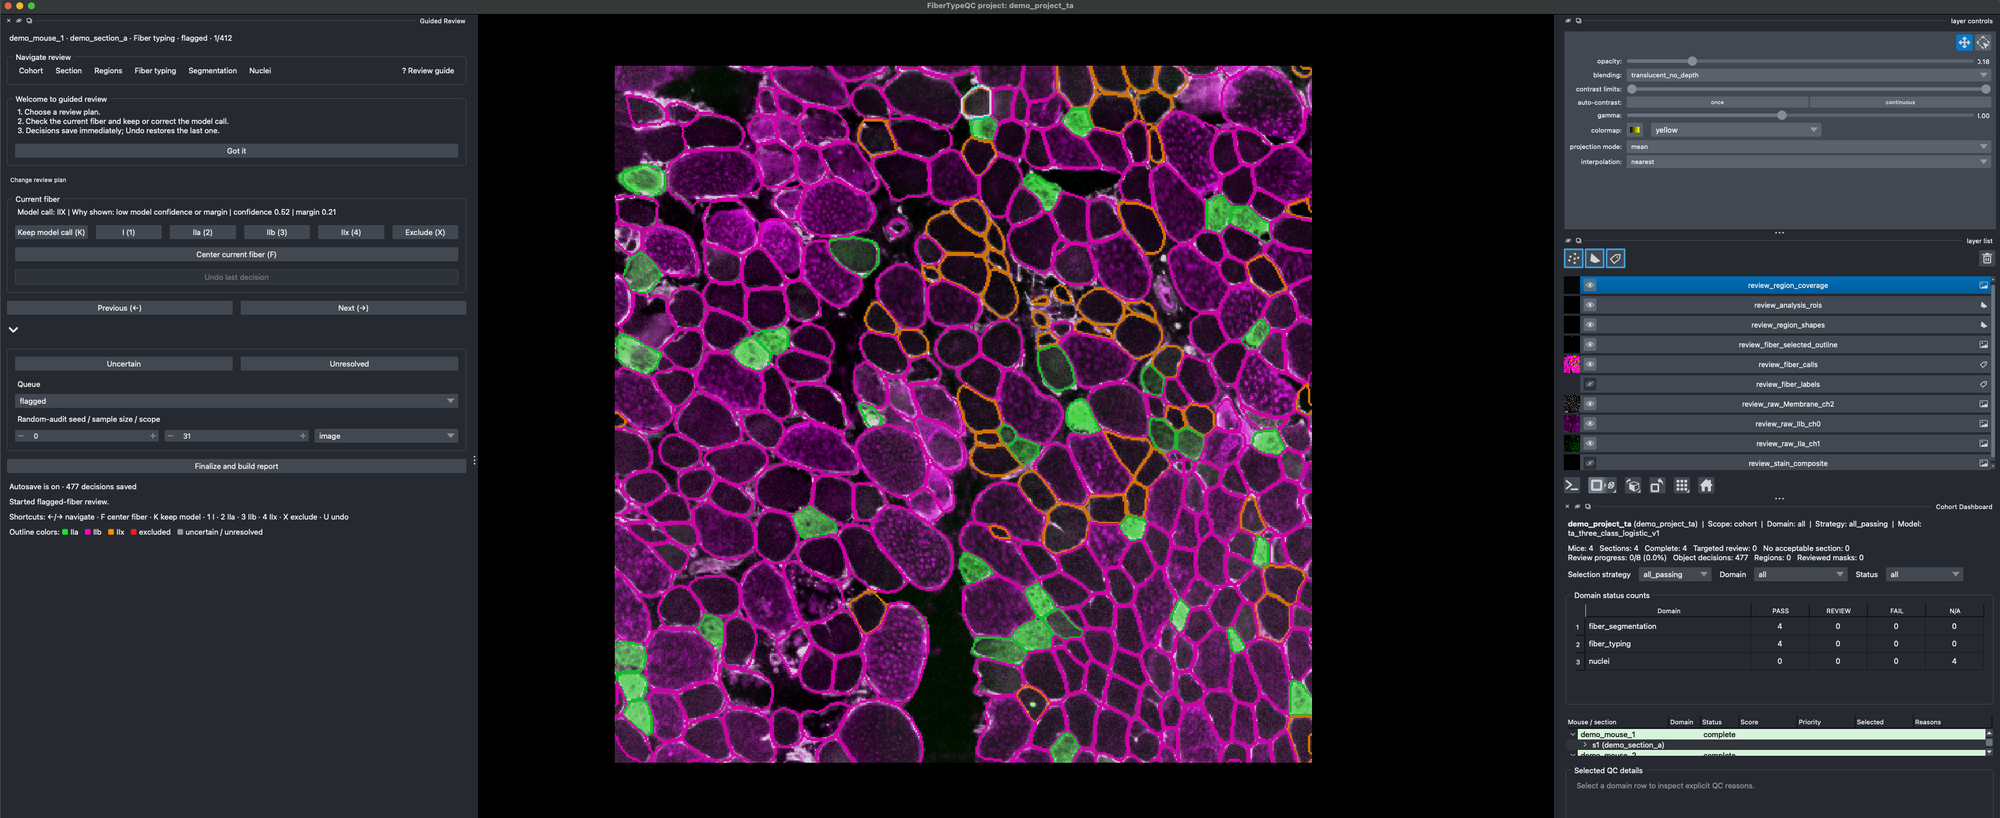
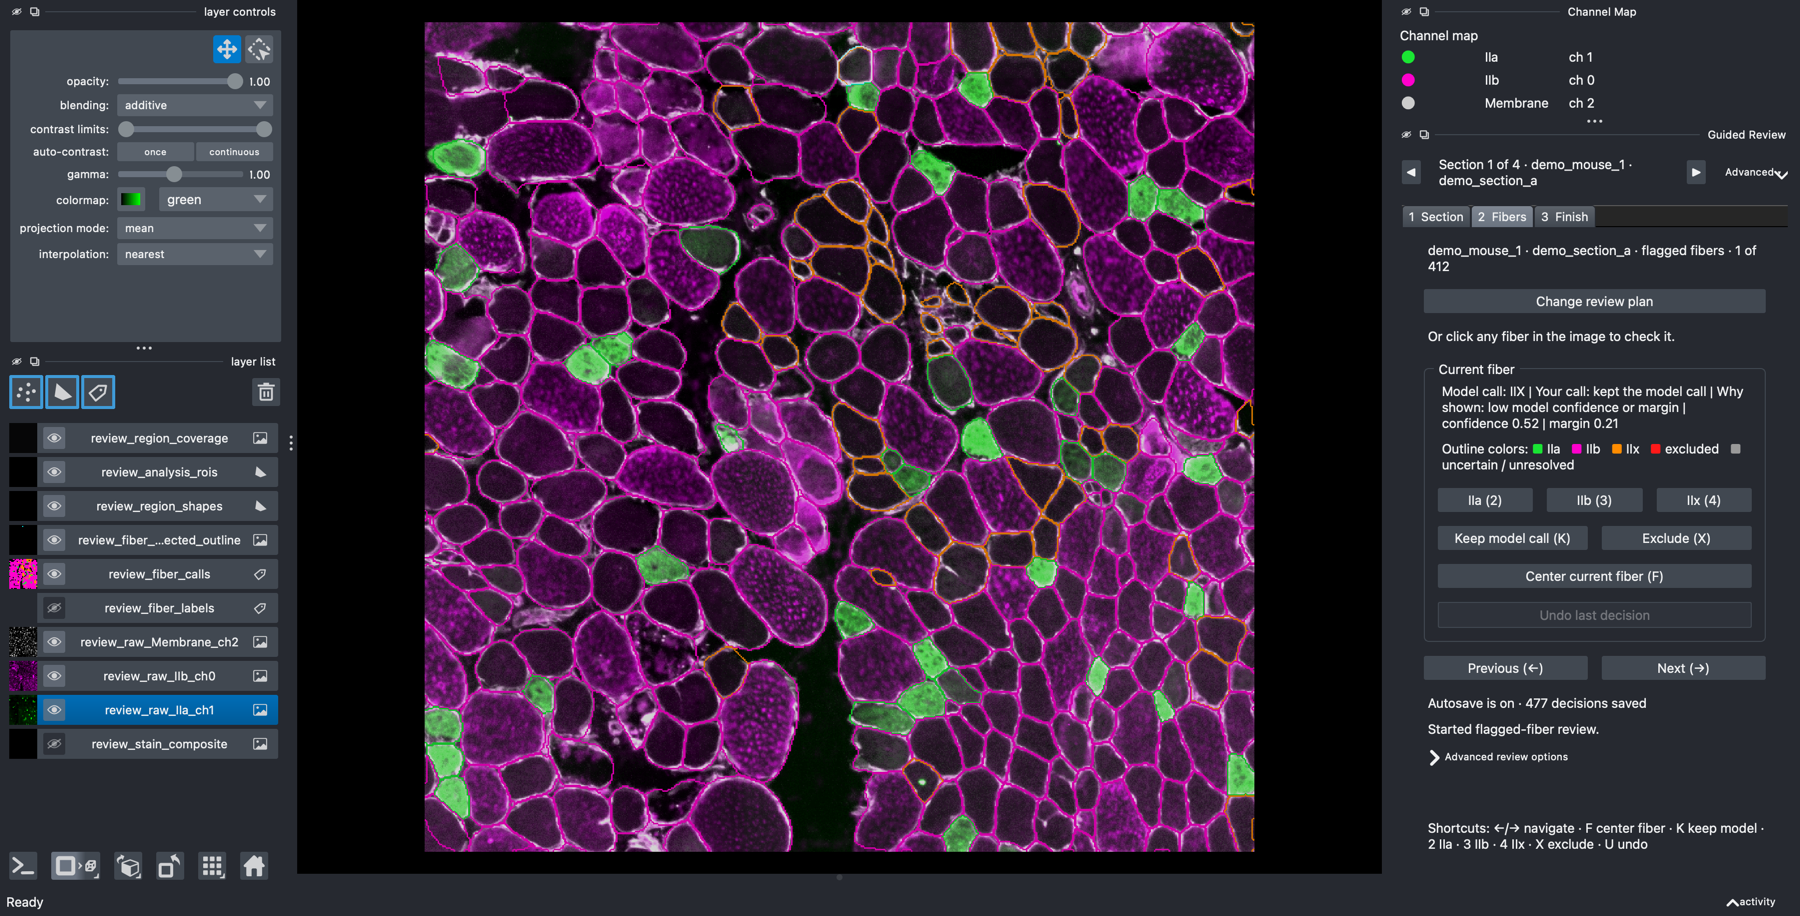
Prepare v0.5.1: staged review window; docs and screenshot updated (#113)
Version 0.5.1 (pyproject, uv.lock, CITATION with the v0.5.0 DOI). CHANGELOG:
v0.5.1 section with a release summary, and the v0.5.0 heading restored (lost
in #111; the v0.5.0 section is again identical to the tag). New review
screenshot on the public demo; README, demo, review reference, and roadmap
describe the stages, Advanced menu, and released v0.5.0.

diff --git a/docs/review_reference.md b/docs/review_reference.md
@@ -350,9 +350,17 @@ explicit seeds, and sample sizes for reproducible study protocols.
 
 ### Guided review workflow
 
-Start by choosing **Review flagged fibers**, **Review this section**, or **View
-cohort QC**. The prominent **Navigate review** bar switches to the cohort,
-current section, and other domains. After selecting a plan, the dock shows one
+The review panel sits on the right, beside napari's layer controls and layer
+list on the left. Its top bar names the section on screen, with ◀ ▶ to move
+between sections and **Advanced ▾** for the cohort dashboard, per-domain section
+status, named regions and ROIs, and nuclei review (these open as tabs beside the
+panel). Below it, one stage is shown at a time: **Section** (a verdict for the
+section: looks fine, leave out an area, or leave out the section; implemented in
+`src/review/section_stage_widget.py`), **Fibers**, and **Finish** (a summary and
+finalization). In the Fibers stage, choose **Review flagged fibers** or **Review
+this section**, or click any fiber in the image: a clicked fiber is checked on
+its own, recorded with reason `clicked`, and the panel then returns to the plan
+and position it was on (clicking is off in blind labelling). The stage shows one
 fiber at a time with a short context line and plain-language primary action
 **Keep model call (K)**. Type corrections and navigation buttons show their
 hotkeys directly. Advanced queue controls and uncommon actions are grouped under
@@ -365,16 +373,15 @@ The visible shortcut legend is: Left/Right to navigate, `K` to keep the model
 call, `1`/`2`/`3`/`4` for I/IIa/IIb/IIx, `F` to center the current fiber, and
 `U` to undo the immediately prior decision.
 
-The persistent navigator moves between cohort QC, the current section, and
-domain-specific review. If a dock is closed accidentally, reopen it from the
-Napari **Workspace** menu; **Restore review workspace** returns the Guided
-Review dock and channel map without restarting. Raw data opens as individually
+If a panel is closed accidentally, reopen it from the napari **Review** menu;
+**Restore review workspace** returns the review panel and channel map without
+restarting. When a section opens, a stain channel is the selected layer, so the
+contrast controls act on it; each section's channel contrast is kept in
+`review/display_contrast.json` (display only) and restored on return. Raw data opens as individually
 toggleable, color-named stain channels (a fixed composite layer is available, hidden),
 with fibers outlined in the color of their current call.
-choices do not modify predictions or review data.
 The compact, fixed-width Channel Map identifies each role and source channel.
 These display choices do not modify predictions or review data.
-choices do not modify predictions or review data.
 
 The legacy `review_labels_napari` CSV layout remains readable through the
 `load_legacy_fiber_type_decisions` adapter. It is a migration input only; the
@@ -383,8 +390,10 @@ and masks are not part of this phase.
 
 ## Region Review (Phase 5)
 
-Open the project workspace and choose **Regions** in the persistent navigator,
-or use **Workspace → Show Region Review**. The image receives a yellow
+To leave out an area, the Section stage's **Leave out an area…** is enough (it
+records an `exclude_all_analysis` region). For other actions and named ROIs,
+choose **Advanced ▾ → Named regions and analysis ROIs**, or **Review → Advanced
+→ Named regions and analysis ROIs**. The image receives a yellow
 `review_region_shapes` layer and a translucent `review_region_coverage` layer.
 The coverage layer counts only saved reviewer polygons; it is not a QC score or
 biological measurement.
@@ -430,7 +439,8 @@ uv run python -m src.review_project_napari \
   --display-downsample 1
 ```
 
-Choose **Nuclei** in Guided Review, or use **Workspace → Show Nuclei Review**.
+Choose **Advanced ▾ → Nuclei review** in the review panel, or **Review → Advanced
+→ Nuclei review**.
 The selected image shows its configured raw-image channels (including DAPI/eMHC
 when present), fiber labels, reviewed nuclei labels, and an empty **Draft new
 nucleus** labels layer.

diff --git a/README.md b/README.md
@@ -23,7 +23,7 @@ images ─► segment (Cellpose) ─► type (panel-specific model) ─► QC fl
 
 ## Status
 
-Version 0.5.0. Read before relying on results:
+Version 0.5.1. Read before relying on results:
 
 - **Models are panel-specific.** A model works only on the staining panel it was trained on; the
   pipeline refuses a mismatched panel. The default, `quad_four_class_rf_v1`, is for laminin, Type I,
@@ -77,8 +77,9 @@ troubleshooting, and single-image commands.
   its panel, features, and classes, and is identified by SHA-256.
 - **QC:** per-image checks (fiber count, uncertainty, inferred-class share, fiber size, channel
   crosstalk) and per-fiber flags (low confidence or margin, faint or thick laminin outline).
-- **Review:** a Napari workspace with a cohort dashboard, section pass/fail/exclude, a guided queue
-  of flagged fibers that says why each is shown, and drawn exclusion regions and analysis ROIs.
+- **Review:** a Napari window that works one stage at a time: a verdict per section (including
+  drawing areas to leave out), then the flagged fibers one by one with the reason each is shown,
+  or any fiber you click; a cohort dashboard and named analysis ROIs are under Advanced.
 - **Finalize:** applies review decisions and exclusions into new tables; every final value is
   labelled `predicted`, `reviewed`, `excluded`, or `unresolved`; refuses decisions made on inputs
   that have since changed.
@@ -153,8 +154,8 @@ validation/   Command wrappers over research validation tools
 
 If you use FiberTypeQC, please cite the version you used. Every release is archived on Zenodo:
 [10.5281/zenodo.23893717](https://doi.org/10.5281/zenodo.23893717) always resolves to the latest
-version, and each version's Zenodo page gives its own DOI (v0.4.0:
-[10.5281/zenodo.23893718](https://doi.org/10.5281/zenodo.23893718)). Cite the version DOI for a
+version, and each version's Zenodo page gives its own DOI (v0.5.0:
+[10.5281/zenodo.24321794](https://doi.org/10.5281/zenodo.24321794)). Cite the version DOI for a
 specific analysis. GitHub's "Cite this repository" button gives the citation from
 [CITATION.cff](CITATION.cff). MIT License; see
 [LICENSE](LICENSE). Questions and bug reports: open an

diff --git a/ROADMAP.md b/ROADMAP.md
@@ -1,6 +1,6 @@
 # FiberTypeQC Roadmap
 
-- Updated: 2026-11-16
+- Updated: 2026-11-17
 - Status: **active.** Goal: a clean, citable repository and a submission to the Journal of Open
   Source Software (JOSS).
 - Supersedes: [docs/history/ROADMAP_v0.3.md](docs/history/ROADMAP_v0.3.md) (frozen 2026-10-14) and
@@ -26,8 +26,9 @@ batch, Open OnDemand review) is documented in `docs/install.md` and was checked 
 demo batch agreed with the macOS reference snapshot within tolerance.
 
 v0.4.0 is released and archived on Zenodo (concept DOI 10.5281/zenodo.23893717; B3, B4 done).
-v0.5.0 (model builder, launcher, nuclei in results, images in subfolders) is in preparation. The
-paper only claims released features, so v0.5.0 is tagged before C5 is finished.
+v0.5.0 (model builder, launcher, nuclei in results, images in subfolders, builder demo) is released
+(DOI 10.5281/zenodo.24321794). v0.5.1 makes the review window one stage at a time, with
+click-to-check. The paper describes v0.5.1 and claims only released features.
 
 In progress: C5 (paper).
 

diff --git a/CHANGELOG.md b/CHANGELOG.md
@@ -1,6 +1,15 @@
 # Changelog
 
-## Unreleased
+## v0.5.1
+
+### Release summary
+
+- **Review window, one stage at a time:** a verdict per section (looks fine, leave out an area,
+  or leave out the section), then the fibers (the flagged list, or click any fiber), then
+  finalize. napari's layer controls stay on the left, and each section's contrast is kept.
+  Advanced panels open as tabs beside the review panel.
+- No change to decisions, finalization, or outputs; v0.5.0 projects open unchanged. Docs and the
+  review screenshot show the new window.
 
 ### Changed
 
@@ -25,6 +34,14 @@
 
 - Saving or removing a region now refreshes the region-coverage overlay; the update was never
   reached.
+
+### Documentation
+
+- The review screenshot (README, `docs/demo.md`) shows the new window; the README, demo, review
+  guide, review reference, and user guide describe the stages and the Advanced menu.
+- The changelog's `v0.5.0` heading, lost when this section was added, is restored.
+
+## v0.5.0
 
 ### Release summary
 

diff --git a/docs/demo.md b/docs/demo.md
@@ -63,7 +63,9 @@ machine, the check falls back to comparing fiber counts and class proportions wi
 uv run python -m fibertypeqc review path/to/fibertypeqc_demo/demo_project
 ```
 
-Choose **Review flagged fibers**. Each fiber is outlined in the color of its current call
+The review panel on the right opens on the **Section** stage (a verdict for the section on
+screen). Open **Fibers** and choose **Review flagged fibers**, or click any fiber in the image.
+Each fiber is outlined in the color of its current call
 (IIa green, IIb magenta, IIx orange), over the raw stain channels. Keys: `K` keep the model call,
 `2`/`3`/`4` = IIa/IIb/IIx, `X` exclude, Left/Right to move, `U` undo. Decisions save as you go.
 
